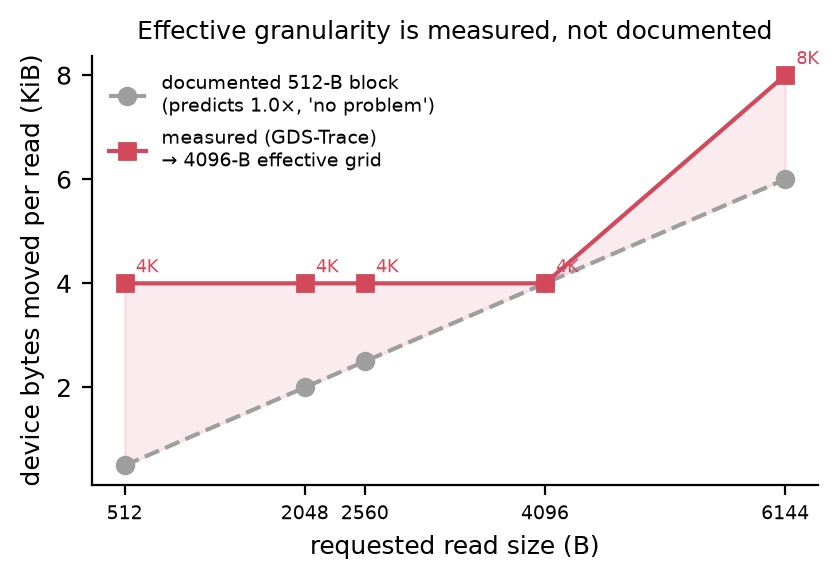
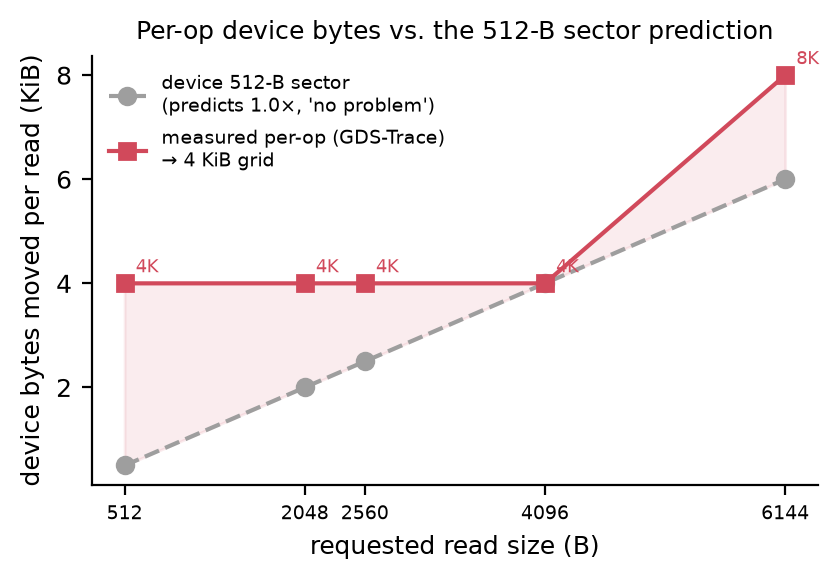
R1 (rejection-risk): reframe IC3/CH3 from 'the spec is wrong' to per-op amplification attribution
Both reviewers flagged 'device spec misreports 512 vs 4096' as factually wrong (512 logical / 4096 are
both correct; on our drive physical_block_size is ALSO 512 -- the 4096 is the ext4 block, documented via
tune2fs). Reframed everywhere: the 4 KiB grid is known/queryable; what no tool exposes is the PER-OP
amplification (which op-class pays it, how much 1.0-16x, whether worth fixing). IC3 demoted to a
supporting per-op-attribution contribution; cite blkalgn (eBPF block-alignment, no per-op/GDS).
Updated: §1 CH3+IC3, §5.1c (full rewrite), §6, Table 2 row label, Fig 2 caption+title+legend (regen),
spine CH3/IC3/traceability, diagnosis-walkthrough Step 6. Also added the paper draft tracker
(all feedback items, deduped, prioritized).

Changed region(s): [[0.1549, 0.031, 0.9297, 0.0931], [0.2169, 0.2172, 0.5268, 0.3103], [0.2169, 0.1241, 0.4958, 0.1552]]

diff --git a/tools/make_figs.py b/tools/make_figs.py
@@ -67,13 +67,13 @@ req = [512, 2048, 2560, 4096, 6144]
 measured = [4096, 4096, 4096, 4096, 8192]                 # GDS-Trace, effective-granularity.txt
 spec512  = [((s+511)//512)*512 for s in req]             # if you trust the documented 512-B block
 fig2, axg = plt.subplots(figsize=(4.3, 3.0))
-axg.plot(req, [m/1024 for m in spec512], "o--", color=GRAY, label="documented 512-B block\n(predicts 1.0×, 'no problem')")
-axg.plot(req, [m/1024 for m in measured], "s-", color=BAD, label="measured (GDS-Trace)\n→ 4096-B effective grid")
+axg.plot(req, [m/1024 for m in spec512], "o--", color=GRAY, label="device 512-B sector\n(predicts 1.0×, 'no problem')")
+axg.plot(req, [m/1024 for m in measured], "s-", color=BAD, label="measured per-op (GDS-Trace)\n→ 4 KiB grid")
 axg.fill_between(req, [m/1024 for m in spec512], [m/1024 for m in measured], color=BAD, alpha=.10)
 for s, m in zip(req, measured):
     axg.annotate(f"{m//1024}K", (s, m/1024), textcoords="offset points", xytext=(4,4), fontsize=6.5, color=BAD)
 axg.set_xlabel("requested read size (B)"); axg.set_ylabel("device bytes moved per read (KiB)")
-axg.set_title("Effective granularity is measured, not documented", fontsize=9)
+axg.set_title("Per-op device bytes vs. the 512-B sector prediction", fontsize=9)
 axg.legend(fontsize=6.8, loc="upper left", frameon=False)
 axg.set_xticks(req); axg.set_xticklabels([str(s) for s in req], fontsize=7)
 fig2.tight_layout()

diff --git a/results/xlayer/diagnosis-walkthrough.md b/results/xlayer/diagnosis-walkthrough.md
@@ -73,13 +73,15 @@ its wall-clock payoff is latent on an idle drive (the small-read stream is laten
 realized under bandwidth contention — multi-tenant drives (our setup) or many concurrent serving
 streams — exactly where KV-offload runs.
 
-## Step 6 — Why this is *not* "just align to 4K" (the fix is measured, and the spec sheet is wrong)
+## Step 6 — Why this is *not* "just align to 4K" (the per-op amplification is the measured part)
 The obvious reviewer objection is: *"aligning/coalescing I/O is textbook; the docs tell you the block
-size; you'd do it in the baseline."* Our data refutes this on this system — the corrective granularity
-is **not** what any layer's documentation reports, and is knowable only by cross-layer measurement.
+size; you'd do it in the baseline."* The 4 KiB grid *is* documented (it is the ext4 block size — a single
+`tune2fs`). Our point is narrower and survives that: (1) the problem is invisible to the tools a
+practitioner consults (gds_stats/iostat read healthy), and (2) the **per-op amplification against the
+grid** — which op-class pays it and how much — is what no tool exposes, and it is what targets the fix.
 
-A practitioner asks "what is the block size to align to?" Every authoritative source on this machine
-answers **512 B**, which predicts *no problem at all*:
+A practitioner asks "what is the block size to align to?" The natural place to check — the *device* —
+answers **512 B** (logical and, on this drive, physical), which predicts *no problem at all*:
 
 | Where you'd look up the granularity | Reports | Predicted A_byte for a 2560 B aligned read |
 |---|--:|--:|
@@ -94,13 +96,15 @@ i.e. `ceil(S/4096)·4096`, never the `ceil(S/512)·512` the spec predicts.)
 
 The device — the natural place a storage engineer checks for "block size" — says **512 B**, so
 first-principles arithmetic says 2560 B is 5 perfectly-aligned sectors, **1.00×, nothing to fix**. The
-*effective* granularity is **4096 B** (the ext4 block dominating a 512-LBA device, and it holds on the
-true-P2P path — confirmed: an O_DIRECT 512 B read moves 4096 B). Aligning to the documented 512 B leaves
-the entire 3.2× in place; the fix is "align/pad to **4096**," a number you get **only by measuring
-requested-vs-device bytes cross-layer**. `G_eff` is an emergent property of the *interaction* of FS,
-device, and GDS path — not stated by any one of them, and **different on another system** (a 4Kn device,
-a 1 KiB/2 KiB-block FS, XFS, or a controller with a larger mapping unit all change it). On such a
-system the same workload's amplification — and therefore the right fix — changes; GDS-Trace re-derives
+binding grid is actually the **4096 B ext4 block** (documented via `tune2fs`; it holds on the true-P2P
+path — an O_DIRECT 512 B read moves 4096 B), so aligning to the device's 512 B leaves the 3.2× in place;
+the grid to align to is **4096**. The 4 KiB constant is one query — *not* a discovery. What is **not**
+queryable a priori is the **per-op amplification**: that the KV class lands sub-4K *and misaligned*
+(off mod 4K = 3072 → 8192 B per 2560 B = 3.2×, vs 1.6× if aligned, vs 1.0× if coalesced) depends on the
+access geometry × file layout, and **only per-op cross-layer measurement gives it**. It is also
+**different on another system** (a 4Kn device, a 1 KiB/2 KiB-block FS, XFS, or a larger controller mapping
+unit change the grid; the access pattern changes the factor). On such a system the amplification — and the
+right fix — changes; GDS-Trace re-derives
 it by measurement, documentation cannot.
 
 And the **magnitude is equally a measured, per-(size×system) quantity, not a constant**: across the same
